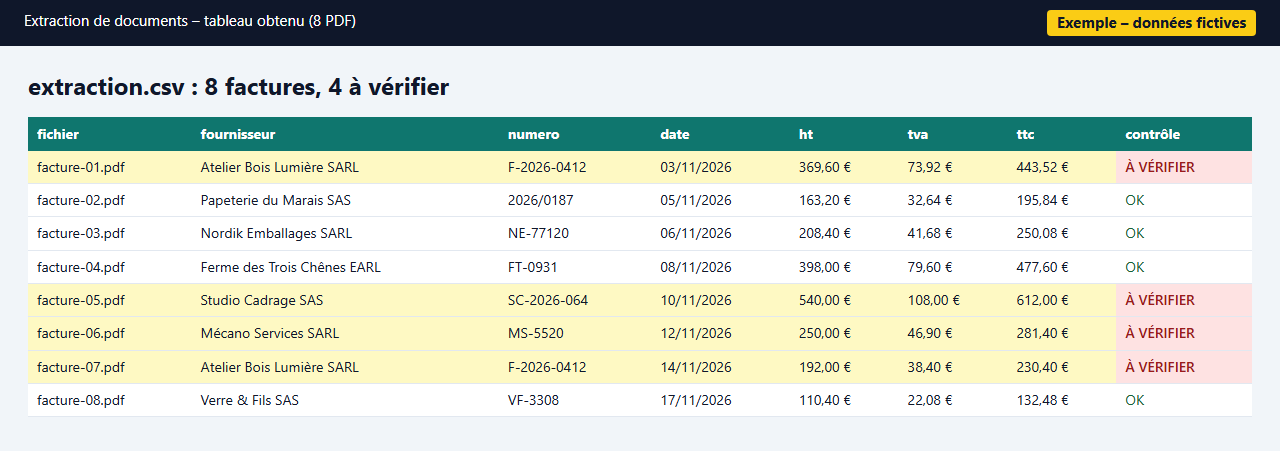
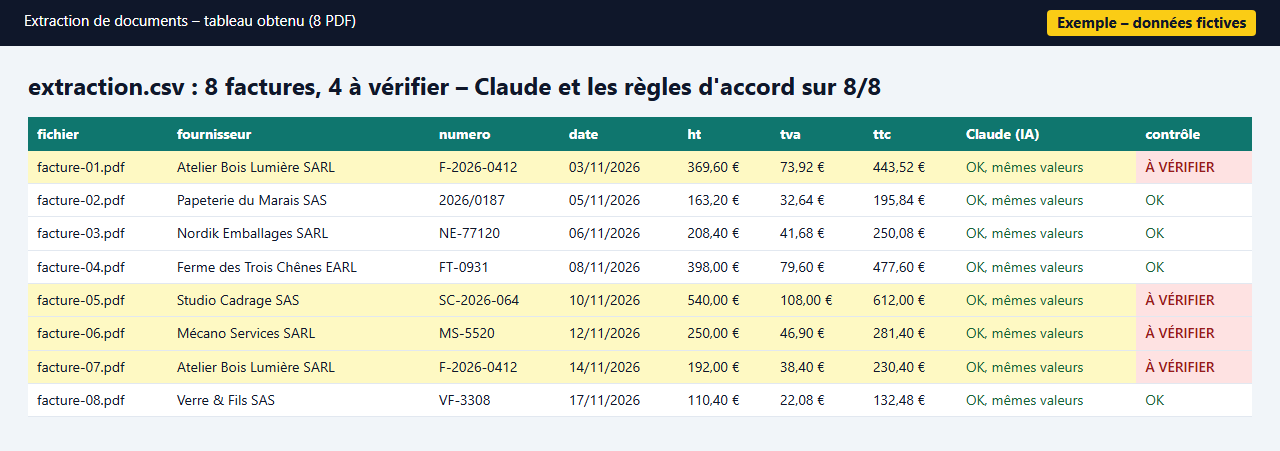
kickoff: fiches ComeUp passe finale, état et journal à jour

diff --git a/livrables/comeup/demos/S3/_tmp/p.html b/livrables/comeup/demos/S3/_tmp/p.html
@@ -9,4 +9,4 @@ th{background:var(--a);color:#fff;text-align:left;padding:7px 9px}td{padding:6px
 pre{background:#0f172a;color:#e2e8f0;padding:16px;border-radius:8px;font:14px/1.5 Consolas,monospace;white-space:pre-wrap}
 .card{background:#fff;border-left:6px solid var(--a);border-radius:6px;padding:10px 14px;margin:0 0 10px;font-size:14px}
 </style>
-<div class=bar><span>Extraction de documents – incohérence signalée</span><span class=tag>Exemple – données fictives</span></div><main><div style='display:grid;grid-template-columns:1fr 1fr;gap:24px'><div><h1>Facture facture-05.pdf</h1><img src=f5.png style='width:100%;border:1px solid #cbd5e1;box-shadow:0 2px 8px #0003'></div><div><h1>Signalement automatique</h1><div class=card style='border-color:#b91c1c'><b>SC-2026-064</b> – Studio Cadrage SAS<br><br>Total HT 540,00 € + TVA 108,00 € = <b>648,00 €</b><br>Total TTC écrit sur la facture : <b>612,00 €</b><br><br><span class=bad>HT+TVA = 648,00 € ≠ TTC 612,00 €</span></div><p>Le script ne corrige pas : il marque la ligne pour relecture humaine.</p></div></div></main>
+<div class=bar><span>Extraction de documents – incohérence signalée</span><span class=tag>Exemple – données fictives</span></div><main><div style='display:grid;grid-template-columns:1fr 1fr;gap:24px'><div><h1>Facture facture-05.pdf</h1><img src=f5.png style='width:100%;border:1px solid #cbd5e1;box-shadow:0 2px 8px #0003'></div><div><h1>Signalement automatique (règles + relecture Claude : mêmes montants lus)</h1><div class=card style='border-color:#b91c1c'><b>SC-2026-064</b> – Studio Cadrage SAS<br><br>Total HT 540,00 € + TVA 108,00 € = <b>648,00 €</b><br>Total TTC écrit sur la facture : <b>612,00 €</b><br><br><span class=bad>HT+TVA = 648,00 € ≠ TTC 612,00 €</span></div><p>Le script ne corrige pas : il marque la ligne pour relecture humaine.</p></div></div></main>

diff --git a/livrables/comeup/demos/S2/widget.html b/livrables/comeup/demos/S2/widget.html
@@ -13,7 +13,7 @@ form{display:flex;gap:8px;padding:12px;border-top:1px solid #e5e7eb}input{flex:1
 const log=document.getElementById('log');
 async function send(q){ if(!q)return; add('u',q);
  const r=await (await fetch('/ask?q='+encodeURIComponent(q))).json();
- add('b'+(r.source?'':' nok'),r.answer,r.source?'Source : '+r.source:'');}
+ add('b'+(r.source?'':' nok'),r.answer,r.source?(r.gen?'Réponse rédigée par Claude à partir du passage cité · ':'')+'Source : '+r.source:'');}
 function add(c,t,s){const d=document.createElement('div');d.className='m '+c;d.textContent=t;
  if(s){const e=document.createElement('div');e.className='src';e.textContent=s;d.appendChild(e)}log.appendChild(d)}
 f.onsubmit=e=>{e.preventDefault();send(q.value);q.value=''};

diff --git a/livrables/comeup/demos/S3/shots.py b/livrables/comeup/demos/S3/shots.py
@@ -11,14 +11,14 @@ def make(name, title, body, h):
 im = "style='width:100%;border:1px solid #cbd5e1;box-shadow:0 2px 8px #0003'"
 make("S3-1-pdf-entree.png", "Extraction de documents – PDF en entrée",
      f"<div style='display:grid;grid-template-columns:1fr 1fr;gap:24px'><div><h1>Facture PDF fictive (entrée)</h1><img src={img(2)} {im}></div>"
-     f"<div><h1>Ce que le script lit</h1><pre>Fournisseur : Papeterie du Marais SAS\nSIRET       : 498 765 432 00027\nN° facture  : 2026/0187\nDate        : 05/11/2026\nTotal HT    : 163,20 €\nTVA         : 32,64 €\nTotal TTC   : 195,84 €\nContrôles   : OK</pre></div></div>", 720)
-th = "".join(f"<th>{k}</th>" for k in ("fichier","fournisseur","numero","date","ht","tva","ttc","contrôle"))
-tr = "".join(f"<tr class='{'warn' if r['alertes'] else ''}'><td>{r['fichier']}</td><td>{html.escape(r['fournisseur'])}</td><td>{html.escape(r['numero'])}</td><td>{r['date']}</td><td>{fr(r['ht'])}</td><td>{fr(r['tva'])}</td><td>{fr(r['ttc'])}</td><td class='{'bad' if r['alertes'] else 'ok'}'>{'À VÉRIFIER' if r['alertes'] else 'OK'}</td></tr>" for r in rows)
+     f"<div><h1>Ce que les règles lisent (puis Claude en recoupement)</h1><pre>Fournisseur : Papeterie du Marais SAS\nSIRET       : 498 765 432 00027\nN° facture  : 2026/0187\nDate        : 05/11/2026\nTotal HT    : 163,20 €\nTVA         : 32,64 €\nTotal TTC   : 195,84 €\nContrôles   : OK\n\nClaude (IA) relit le même texte :\nmêmes 5 champs, aucun écart</pre></div></div>", 720)
+th = "".join(f"<th>{k}</th>" for k in ("fichier","fournisseur","numero","date","ht","tva","ttc","Claude (IA)","contrôle"))
+tr = "".join(f"<tr class='{'warn' if r['alertes'] else ''}'><td>{r['fichier']}</td><td>{html.escape(r['fournisseur'])}</td><td>{html.escape(r['numero'])}</td><td>{r['date']}</td><td>{fr(r['ht'])}</td><td>{fr(r['tva'])}</td><td>{fr(r['ttc'])}</td><td class='{'bad' if r['ia']!='OK' else 'ok'}'>{'OK, mêmes valeurs' if r['ia']=='OK' else 'écart'}</td><td class='{'bad' if r['alertes'] else 'ok'}'>{'À VÉRIFIER' if r['alertes'] else 'OK'}</td></tr>" for r in rows)
 make("S3-2-tableau-extrait.png", "Extraction de documents – tableau obtenu (8 PDF)",
-     f"<h1>extraction.csv : 8 factures, 4 à vérifier</h1><table><tr>{th}</tr>{tr}</table>", 520)
+     f"<h1>extraction.csv : 8 factures, 4 à vérifier – Claude et les règles d'accord sur 8/8</h1><table><tr>{th}</tr>{tr}</table>", 520)
 bad = rows[4]
 make("S3-3-incoherence.png", "Extraction de documents – incohérence signalée",
      f"<div style='display:grid;grid-template-columns:1fr 1fr;gap:24px'><div><h1>Facture {bad['fichier']}</h1><img src={img(5)} {im}></div>"
-     f"<div><h1>Signalement automatique</h1><div class=card style='border-color:#b91c1c'><b>{bad['numero']}</b> – {html.escape(bad['fournisseur'])}<br><br>"
+     f"<div><h1>Signalement automatique (règles + relecture Claude : mêmes montants lus)</h1><div class=card style='border-color:#b91c1c'><b>{bad['numero']}</b> – {html.escape(bad['fournisseur'])}<br><br>"
      f"Total HT {fr(bad['ht'])} + TVA {fr(bad['tva'])} = <b>{fr(float(bad['ht'])+float(bad['tva']))}</b><br>Total TTC écrit sur la facture : <b>{fr(bad['ttc'])}</b><br><br><span class=bad>{html.escape(bad['alertes'])}</span></div>"
      f"<p>Le script ne corrige pas : il marque la ligne pour relecture humaine.</p></div></div>", 720)

diff --git a/livrables/comeup/demos/S2/app.py b/livrables/comeup/demos/S2/app.py
@@ -21,13 +21,13 @@ def ask(q):
         dt = set(toks(t + " " + b)); sc = sum(math.log(1 + N/df[w]) for w in qt & dt)
         if sc > best[0] and len(qt & dt) / len(qt) >= COVERAGE: best = (sc, (t, b))  # une question dont la moitié des mots est inconnue de la FAQ est hors périmètre
     if best[0] < THRESHOLD: return unknown(q, best[0])
-    t, b = best[1]
+    t, b = best[1]; gen = bool(os.environ.get("S2_LLM"))
     if os.environ.get("S2_LLM"):  # RAG : Claude (CLI headless) rédige la réponse à partir du seul passage retrouvé
         b = llm.ask("Tu es l'assistant d'une boutique. Réponds en français, en 1 à 3 phrases, UNIQUEMENT à partir de l'extrait de FAQ ci-dessous. "
                     "Si l'extrait ne répond pas à la question, réponds exactement : Je ne sais pas."
                     f"\n\nExtrait ({t}) :\n{b}\n\nQuestion : {q}")
         if b.lower().startswith("je ne sais pas"): return unknown(q, best[0])
-    return {"answer": b, "source": f"FAQ Boutique Démo > {t}", "score": round(best[0], 2)}
+    return {"answer": b, "source": f"FAQ Boutique Démo > {t}", "score": round(best[0], 2), "gen": gen}
 def unknown(q, score):
     with open(here/"unanswered.log", "a", encoding="utf-8") as f: f.write(f"{datetime.datetime.now():%Y-%m-%d %H:%M}\t{q}\n")
     return {"answer": "Je ne sais pas : cette information n'est pas dans la FAQ. Je transmets votre question à l'équipe, qui vous répondra par e-mail sous 24 h ouvrées.", "source": None, "score": round(score, 2)}

diff --git a/livrables/comeup/demos/S3/extract.py b/livrables/comeup/demos/S3/extract.py
@@ -15,13 +15,14 @@ for p in sorted((here/"invoices").glob("*.pdf")):
     block = t.split("Total HT :")[0]
     nums = re.findall(r"\n(\d+)\n([\d ]+,\d{2})\n([\d ]+,\d{2})", block)
     lines_sum = round(sum(num(c) for _, _, c in nums), 2)
-    ai_alert = []
+    ai_alert = []; ia = ""
     if AI:
         raw = llm.ask("Extrais de cette facture le numéro, la date (JJ/MM/AAAA), le total HT, la TVA et le total TTC (nombres avec point décimal). Réponds uniquement par un objet JSON de clés numero, date, ht, tva, ttc.\n\n" + t)
         a = json.loads(raw[raw.index("{"):raw.rindex("}") + 1])
         ai_alert = [f"IA ≠ règles sur {k}" for k, v in (("numero", g(r"Facture n° (\S+)")), ("date", g(r"Date : (\S+)")), ("ht", ht), ("tva", tva), ("ttc", ttc)) if str(a[k]).strip() != str(v)]
+        ia = "OK" if not ai_alert else "écart"
     rows.append(dict(fichier=p.name, fournisseur=t.split("\n")[0].strip(), siret=g(r"SIRET ([\d ]+)"), numero=g(r"Facture n° (\S+)"),
-                     date=g(r"Date : (\S+)"), ht=ht, tva=tva, ttc=ttc, somme_lignes=lines_sum, alertes=ai_alert))
+                     date=g(r"Date : (\S+)"), ht=ht, tva=tva, ttc=ttc, somme_lignes=lines_sum, ia=ia, alertes=ai_alert))
 cnt = collections.Counter((r["fournisseur"], r["numero"]) for r in rows)
 for r in rows:
     if abs(r["somme_lignes"] - r["ht"]) > 0.01: r["alertes"].append(f"somme des lignes {fr(r['somme_lignes'])} ≠ Total HT {fr(r['ht'])}")

diff --git a/livrables/comeup/demos/llm.py b/livrables/comeup/demos/llm.py
@@ -1,7 +1,7 @@
 """LLM local = CLI Claude Code en mode headless (abonnement, pas d'API payante). Lève RuntimeError si la CLI n'est pas connectée."""
 import subprocess, json, os, shutil
 def ask(prompt, model="haiku", timeout=180):
-    env = {k: v for k, v in os.environ.items() if not k.startswith(("CLAUDE", "ANTHROPIC_"))}  # jamais de clé API
+    env = {k: v for k, v in os.environ.items() if k == "CLAUDE_CODE_OAUTH_TOKEN" or not k.startswith(("CLAUDE", "ANTHROPIC_"))}  # jamais de clé API
     p = subprocess.run([shutil.which("claude") or "claude", "-p", "--model", model, "--output-format", "json"], input=prompt,
                        capture_output=True, text=True, encoding="utf-8", timeout=timeout, env=env)
     r = json.loads(p.stdout)

diff --git a/livrables/comeup/demos/S2/shots.py b/livrables/comeup/demos/S2/shots.py
@@ -6,7 +6,7 @@ here = pathlib.Path(__file__).parent; (here/"unanswered.log").unlink(missing_ok=
 srv = subprocess.Popen([sys.executable, str(here/"app.py")]); time.sleep(1.5)
 u = lambda *qs: "http://127.0.0.1:8765/?" + "&".join("q=" + up.quote(q) for q in qs)
 try:
-    shot(u("Combien coûte la livraison express ?"), ASSETS/"S2-1-reponse-sourcee.png", 1280, 520)
+    shot(u("Combien coûte la livraison express ?", "Quelle est la durée de la garantie ?"), ASSETS/"S2-1-reponse-sourcee.png", 1280, 690)
     shot(u("Vendez-vous des cartes cadeaux ?", "Avez-vous un magasin à Lyon ?"), ASSETS/"S2-2-hors-perimetre.png", 1280, 620)
     shot("http://127.0.0.1:8765/log", ASSETS/"S2-3-questions-sans-reponse.png", 1280, 300)
 finally: srv.terminate()

diff --git a/scripts/with_token.py b/scripts/with_token.py
@@ -1,0 +1,9 @@
+"""Lance une commande avec le token Claude de l'agence (forfait Max), jamais avec une clé API.
+Usage : python scripts/with_token.py <commande...>"""
+import os, shutil, subprocess, sys
+import tg
+
+env = {k: v for k, v in os.environ.items() if k not in ("ANTHROPIC_API_KEY", "ANTHROPIC_AUTH_TOKEN")}
+env["CLAUDE_CODE_OAUTH_TOKEN"] = tg.env()["CLAUDE_CODE_OAUTH_TOKEN"]
+cmd = [shutil.which(sys.argv[1]) or sys.argv[1], *sys.argv[2:]]
+sys.exit(subprocess.call(cmd, env=env))

diff --git a/livrables/comeup/S3-extraction-documents-ia.md b/livrables/comeup/S3-extraction-documents-ia.md
@@ -1,12 +1,12 @@
-# S3 - Automatisation de l'extraction de documents (factures, bons de livraison, PDF vers Excel)
+# S3 - Extraction de factures PDF vers Excel par IA (bons de livraison / CMR sur devis après test)
 
 Les blocs entre les lignes ==== sont à coller tels quels dans ComeUp : texte brut, sans Markdown (pas de ** ni de ->), listes avec "- " et numéros "1.".
 Prix = prix affiché acheteur (benchmark). À la création, saisir le prix vendeur qui donne ce prix affiché (~ prix / 1,102) et contrôler au checkout. Limite de titre ComeUp non vérifiée : titre gardé nettement sous 80 caractères.
 À confirmer par Baptiste avant publication : la niche (recherche ComeUp "saisie de factures" / "extraction de données") et la catégorie Saisie/Data si elle existe.
 
-## Titre (62 caractères)
-Je vais transformer vos factures et bons de livraison en Excel
-(ComeUp impose "Je vais" : saisir "transformer vos factures et bons de livraison en Excel")
+## Titre (70 caractères)
+Je vais automatiser l'extraction de vos factures PDF vers Excel par IA
+(ComeUp impose "Je vais" : saisir "automatiser l'extraction de vos factures PDF vers Excel par IA")
 
 ## Catégorie
 Programmation & Tech > Automatisation (à confirmer à la création ; alternative : Saisie / Data si la catégorie existe)
@@ -25,7 +25,7 @@ Programmation & Tech > Automatisation (à confirmer à la création ; alternativ
 | Révisions | 1 | 2 | 3 + 14 jours de support |
 | Types de documents | 1 | 3 | jusqu'à 5 |
 | Destination | 1 (Google Sheets, Excel ou CSV) | 1 | Google Sheets/Excel + base Supabase + export |
-| Test sur vos documents | 10 documents | 20 par type | jusqu'à 60 au total, répartis entre vos types |
+| Test sur vos documents | 10 documents | 20 par type (60 pour 3 types) | 20 par type (100 pour 5 types) |
 | Taux de lecture mesuré et communiqué | oui | oui | oui |
 | Contrôles de cohérence (totaux, doublons) | non | oui | oui |
 | Alerte sur les cas douteux | non (champs manquants seulement signalés) | oui | oui |
@@ -33,7 +33,7 @@ Programmation & Tech > Automatisation (à confirmer à la création ; alternativ
 | Validation humaine intégrée (écran de relecture) | non | non | oui |
 | Documentation | 1 page | 2-3 pages | complète |
 
-Logique de prix : Essentiel à 49 €, dans la médiane marché (33-55 €), avec un test de 10 documents pour rester tenable en temps ; niche sans concurrent vu ; upsell naturel vers les contrôles de cohérence puis le flux complet. Tarif de lancement à relever après les premiers avis (Baptiste décide). Le coût API par document n'est pas dans le prix : estimation donnée avant commande.
+Logique de prix : Essentiel à 49 €, dans la médiane marché (33-55 €), avec un test de 10 documents pour rester tenable en temps ; niche sans concurrent vu ; upsell naturel vers les contrôles de cohérence puis le flux complet. Écart Standard-Premium (260 €) : 2 types de documents en plus (2 x 39 = 78 €) + écran de validation humaine (69 €) + destination supplémentaire Supabase (25 €) + 40 documents de test en plus (4 x 15 = 60 €) = 232 € ; le reste (environ 28 €) correspond au flux complet (boîte mail ou dossier surveillé, extraction, base, export) et aux 14 jours de support. Tarif de lancement à relever après les premiers avis (Baptiste décide). Le coût API par document n'est pas dans le prix : estimation donnée avant commande.
 
 ## Options (extras)
 - Type de document supplémentaire : +39 €
@@ -57,24 +57,24 @@ Standard (169 € / 7 jours) :
 3 types de documents, contrôles de cohérence (totaux, doublons), alerte sur les cas douteux, test sur 20 documents par type, documentation de 2 à 3 pages. 2 corrections.
 ====
 Premium (429 € / 14 jours) :
-Flux complet : boîte mail ou dossier surveillé, extraction, base Supabase, export. Jusqu'à 5 types de documents, écran de validation humaine, test sur 60 documents au total (répartis entre vos types), 14 jours de support. 3 corrections.
+Flux complet : boîte mail ou dossier surveillé, extraction, base Supabase, export. Jusqu'à 5 types de documents, écran de validation humaine, test sur 20 documents par type (100 au total pour 5 types), 14 jours de support. 3 corrections.
 ====
 
 ## Description (à coller)
 ====
-Vous retapez à la main des factures, des bons de livraison ou des CMR dans un tableur : c'est long, ennuyeux et une faute de frappe passe vite. J'automatise cette saisie de factures et de documents PDF vers Excel ou Google Sheets avec n8n et l'IA, avec vos règles de contrôle.
+Vous retapez à la main des factures dans un tableur : c'est long, ennuyeux et une faute de frappe passe vite. J'automatise cette saisie de factures PDF vers Excel ou Google Sheets avec n8n et l'IA, avec vos règles de contrôle. Les bons de livraison, CMR et autres documents sont possibles sur devis, après un test sur vos exemples : ils ne sont pas démontrés dans la galerie.
 
-Je suis développeur avec une expérience professionnelle de la logistique : je connais ces documents (références, quantités, dates, numéros de commande, totaux) et leurs pièges. Je mets en place un flux n8n + IA qui lit vos PDF (texte en priorité ; scans et photos nettes possibles, selon le taux de lecture mesuré sur vos documents de test), en extrait les champs utiles et les range dans Google Sheets, Excel ou une base de données.
+Je suis développeur avec une expérience professionnelle de la logistique : je connais ces documents (références, quantités, dates, numéros de commande, totaux) et leurs pièges. Je mets en place un flux n8n + IA qui lit vos PDF (PDF texte, le cas démontré ; scans et photos : à évaluer sur vos documents de test, rien n'est promis d'avance), en extrait les champs utiles et les range dans Google Sheets, Excel ou une base de données.
 
 CE QUE VOUS RECEVEZ
 - Un workflow n8n prêt à l'emploi pour le ou les types de document du palier. Un type = une famille de documents aux mêmes champs (par exemple "factures fournisseurs"), quel que soit le fournisseur.
-- Un test sur vos vrais documents (10 en Essentiel, 20 par type en Standard, jusqu'à 60 au total en Premium), avec le taux de lecture correcte mesuré champ par champ et communiqué : vous voyez ce qui marche et ce qui ne marche pas.
+- Un test sur vos vrais documents (10 en Essentiel, 20 par type en Standard, 20 par type en Premium, soit 100 pour 5 types), avec le taux de lecture correcte mesuré champ par champ et communiqué : vous voyez ce qui marche et ce qui ne marche pas.
 - Selon le palier : contrôles de cohérence (le total correspond-il aux lignes ? doublon ?), alerte sur les cas douteux, base Supabase, écran de validation humaine.
 - Une documentation et vos accès à votre nom.
 
 Cas douteux : un document est marqué "à relire" si un champ obligatoire manque ou est illisible, si la somme des lignes ne correspond pas au total, si le numéro existe déjà, ou si l'IA signale qu'elle n'est pas sûre d'une valeur. Les règles sont écrites avec vous avant de construire.
 
-Les captures de la galerie montrent la logique (lecture de PDF, tableau, cas douteux signalé) sur un prototype avec des factures fictives ; chez vous, elle est construite dans n8n avec une étape IA pour les documents scannés ou mal structurés.
+Les captures de la galerie viennent d'un prototype en Python sur 8 factures PDF fictives, dont 4 contiennent volontairement une erreur ou un doublon pour montrer les contrôles (l'accord 8 sur 8 ne mesure donc pas une précision réelle) : des règles lisent les champs, Claude (IA) relit chaque facture en parallèle et les deux résultats sont comparés (accord sur 8 factures sur 8), puis les incohérences sont signalées. Ce prototype n'est pas un workflow n8n et n'a été testé que sur ces PDF fictifs au texte lisible ; chez vous, la logique est construite dans n8n avec l'API Claude.
 
 EXEMPLE (illustratif, pas un résultat client)
 Une facture PDF arrive dans une boîte Gmail ou un dossier Drive. n8n la récupère, l'IA (API Claude) lit le document et renvoie les champs : fournisseur, numéro de facture, date, lignes, total HT, TVA, total TTC. n8n vérifie que la somme des lignes égale le total et que le numéro n'existe pas déjà, puis ajoute la ligne dans Google Sheets. Si une vérification échoue, la ligne est marquée "à relire" et vous recevez un message.
@@ -95,7 +95,7 @@ CE QUI N'EST PAS INCLUS
 
 FAQ
 Quels documents sont lus ?
-Factures, bons de livraison, bons de commande, CMR, tickets, relevés, en PDF texte. Les PDF scannés et les photos nettes sont possibles mais non garantis d'avance : le taux de lecture se mesure sur vos documents de test (voir "Quelle précision ?"), et un prétraitement est proposé en option si la qualité est faible.
+Factures en PDF texte (cas démontré). Bons de livraison, bons de commande, CMR, tickets, relevés : sur devis, après un test sur vos exemples (non démontrés dans la galerie). Pour les PDF scannés et les photos, je ne promets rien d'avance : selon le test sur vos documents (voir "Quelle précision ?"), je vous dis si c'est lisible, et un prétraitement est proposé en option si la qualité est faible.
 
 Quelle précision ?
 Elle dépend de vos documents. On mesure ensemble le taux de lecture sur vos documents de test avant de valider ; pas de promesse chiffrée avant ce test. À l'issue du test, vous décidez de continuer ou non.
@@ -119,7 +119,7 @@ Je corrige dans les révisions du palier jusqu'à ce que le flux fonctionne conf
 ====
 
 ## Consignes à l'acheteur (questions à la commande)
-1. Quel(s) type(s) de document (factures, BL, CMR...) et en quel volume par mois ?
+1. Quel(s) type(s) de document (factures ; BL, CMR... sur devis) et en quel volume par mois ?
 2. Format : PDF texte, scans, photos de téléphone ?
 3. Quels champs voulez-vous extraire (liste précise) ?
 4. Où doivent aller les données (Google Sheets, Excel, base) et quelles colonnes ?
@@ -139,10 +139,9 @@ extraction de données, saisie de factures, OCR IA, n8n, automatisation
 - À tester à 200 px de large avant publication.
 
 ## Preuves (à joindre)
-Galerie ComeUp, dans cet ordre. Toutes les images portent la mention "Exemple - données fictives". Les captures montrent la logique sur un prototype en Python local (code réel, données fictives) : elles ne montrent ni n8n ni IA générative. Chez le client, la logique est construite dans n8n avec une étape IA pour les documents scannés ou mal structurés. Ne jamais présenter ces captures comme un workflow n8n livré.
-Le prototype lit le texte de PDF fictifs avec des règles fixes (extraction déterministe) ; l'étape IA n'est pas illustrée.
-- livrables/comeup/assets/S3-couverture.png : couverture 1280x720 (les mots "par IA" et "n8n" désignent l'offre, pas la démo).
-- livrables/comeup/assets/S3-1-pdf-entree.png. Légende : "Entrée : facture PDF fictive et champs lus."
-- livrables/comeup/assets/S3-2-tableau-extrait.png. Légende : "Sortie : 8 factures converties en tableau, 4 marquées à vérifier."
-- livrables/comeup/assets/S3-3-incoherence.png. Légende : "Cas douteux signalé : HT + TVA ne correspond pas au TTC. Aucune correction automatique."
-- Vidéo de démo 60-90 s (flux n8n réel, facture fictive vers ligne Sheets, cas douteux marqué) : à enregistrer par Baptiste, hors atelier.
+Galerie ComeUp, dans cet ordre. Toutes les images portent la mention "Exemple - données fictives". La preuve ne couvre que des factures. Les captures viennent d'un prototype en Python local (code réel, 8 factures PDF fictives au texte lisible, dont 4 pièges volontaires : erreur ou doublon) avec une vraie étape IA : des règles extraient les champs, Claude relit chaque facture, les deux résultats sont comparés (accord 8/8) et les incohérences de totaux, de TVA ou de doublon sont signalées sans correction. Le prototype n'est pas un workflow n8n, ne lit ni scans ni photos, et aucun taux de lecture sur de vrais documents n'est démontré. Ne jamais présenter ces captures comme un flux livré.
+- livrables/comeup/assets/S3-couverture.png : couverture 1280x720 (le mot "n8n" désigne l'offre, pas la démo).
+- livrables/comeup/assets/S3-1-pdf-entree.png. Légende : "Entrée : facture PDF fictive, champs lus par les règles et relus par Claude."
+- livrables/comeup/assets/S3-2-tableau-extrait.png. Légende : "Sortie : 8 factures fictives converties en tableau ; 4 contiennent volontairement une erreur ou un doublon pour montrer les contrôles (4 marquées à vérifier). Claude et les règles d'accord sur 8 sur 8, ce qui ne mesure pas la précision réelle."
+- livrables/comeup/assets/S3-3-incoherence.png. Légende : "Cas douteux signalé : HT + TVA (648,00 €) ne correspond pas au TTC (612,00 €). Aucune correction automatique."
+- Vidéo de démo 60-90 s : à enregistrer avant publication (flux n8n réel, facture fictive vers ligne Sheets, cas douteux marqué ; par Baptiste, hors atelier).

diff --git a/livrables/comeup/S2-assistant-ia-documents.md b/livrables/comeup/S2-assistant-ia-documents.md
@@ -21,7 +21,7 @@ Programmation & Tech > Automatisation (alternative : Chatbot / IA si une catégo
 | Chatbot sur votre site (widget) | 1 | 1 | 1 |
 | Documents / FAQ intégrés (1 document = 1 PDF ou page de 20 pages maximum) | jusqu'à 10 | jusqu'à 50 | jusqu'à 100 |
 | Règles de ton et de contenu | oui | oui | oui |
-| Test avec 20 questions | oui | oui | oui |
+| Test avec des questions réelles | 10 questions | 20 questions | 20 questions |
 | "Je ne sais pas" paramétré | oui | oui | oui |
 | Transfert à un humain par email | non (option +49 €) | oui | oui |
 | Historique des conversations (nécessite une base Supabase) | non (option +39 €) | oui | oui |
@@ -49,10 +49,10 @@ Logique de prix : l'Essentiel à 55 € (10 documents, sans base Supabase) reste
 ## Texte à coller par palier
 ====
 Essentiel (55 € / 5 jours) :
-1 chatbot IA en widget sur votre site, basé sur jusqu'à 10 de vos documents ou FAQ (1 document = 1 PDF ou page de 20 pages maximum), avec règles de ton, réponse "je ne sais pas" quand l'information manque, test avec 20 questions, documentation d'1 page. 1 correction.
+1 chatbot IA en widget sur votre site, basé sur jusqu'à 10 de vos documents ou FAQ (1 document = 1 PDF ou page de 20 pages maximum), avec règles de ton, réponse "je ne sais pas" quand l'information manque, test avec 10 questions, documentation d'1 page. 1 correction.
 ====
 Standard (249 € / 10 jours) :
-Essentiel + jusqu'à 50 documents, transfert à un humain par email, historique des conversations (base Supabase à votre nom), un plafond mensuel de dépense API réglé pour vous, documentation d'exploitation + guide de mise à jour de vos documents. 2 corrections.
+Essentiel + test porté à 20 questions, jusqu'à 50 documents, transfert à un humain par email, historique des conversations (base Supabase à votre nom), un plafond mensuel de dépense API réglé pour vous, documentation d'exploitation + guide de mise à jour de vos documents. 2 corrections.
 ====
 Premium (549 € / 18 jours) :
 Standard + jusqu'à 100 documents, 1 intégration au choix (Google Calendar/Calendly pour un agenda, ou un CRM avec API comme HubSpot), tableau des questions sans réponse, 14 jours de réglages. 3 corrections.
@@ -60,21 +60,21 @@ Standard + jusqu'à 100 documents, 1 intégration au choix (Google Calendar/Cale
 
 ## Description (à coller)
 ====
-Vos clients posent chaque jour les mêmes questions (délais, retours, tarifs, fonctionnement) et vous y répondez à la main. Je crée un chatbot IA pour votre boutique en ligne ou votre site : il répond à partir de VOS documents et vous passe le relais quand il ne sait pas.
+Vos clients posent chaque jour les mêmes questions (délais, retours, tarifs, fonctionnement) et vous y répondez à la main. Je crée un chatbot IA pour votre boutique en ligne ou votre site : il répond à partir de VOS documents (il peut se tromper : voir les limites plus bas) et, à partir du palier Standard, vous passe le relais quand il ne sait pas.
 
-Je suis développeur avec une expérience professionnelle de la logistique, donc habitué aux questions de livraison, de retour et de suivi. Je crée un chatbot sur mesure, intégré à votre site, qui répond uniquement à partir des documents que vous me fournissez.
+Je suis développeur avec une expérience professionnelle de la logistique, donc habitué aux questions de livraison, de retour et de suivi. Le chatbot est intégré à votre site et s'appuie sur les documents que vous me fournissez.
 
 CE QUE VOUS RECEVEZ
 - Un chatbot en widget à intégrer sur votre site (une ligne de code à coller).
 - Une base de connaissances construite à partir de vos documents (FAQ, CGV, fiches produits, procédures) : un document compte pour 1 PDF ou 1 page de 20 pages maximum ; au-delà, il compte pour plusieurs, au prorata.
 - Un ton réglé selon vos consignes (vouvoiement, style, ce qu'il ne doit jamais dire).
-- Un test avec 20 questions réelles, avec les réponses relues ensemble.
+- Un test avec vos questions réelles (10 en Essentiel, 20 en Standard et Premium), avec les réponses relues ensemble.
 - Selon le palier : transfert à un humain par email, historique des conversations, plafond de dépense API réglé, tableau des questions sans réponse, guide de mise à jour.
 
-Les captures de la galerie montrent la logique (réponse sourcée, "je ne sais pas", journal des questions) sur un prototype qui fait une recherche par mots-clés dans une FAQ fictive, sans IA générative ; chez vous, le chatbot est construit dans n8n avec l'IA (API Claude) qui rédige la réponse à partir de vos documents.
+Les captures de la galerie viennent d'un prototype en Python sur une FAQ fictive : il retrouve le passage utile, puis Claude (IA) rédige la réponse à partir de ce seul passage, en citant la source, et répond "je ne sais pas" hors périmètre ; la question sans réponse est seulement enregistrée dans un journal (pas d'e-mail envoyé dans la démo). Ce prototype n'est pas un workflow n8n ; chez vous, le chatbot est construit dans n8n avec l'API Claude.
 
 EXEMPLE (illustratif, pas un résultat client)
-Une cliente écrit sur votre boutique : "Je peux retourner une robe achetée il y a trois semaines ?" Le chatbot retrouve la règle dans vos conditions de retour et répond avec cette règle, en citant votre politique. Si la réponse n'est pas dans vos documents, il répond "Je n'ai pas cette information" et vous envoie la question par email, avec les coordonnées laissées par la cliente (palier Standard et au-dessus).
+Une cliente écrit sur votre boutique : "Je peux retourner une robe achetée il y a trois semaines ?" Le chatbot retrouve la règle dans vos conditions de retour et répond avec cette règle, en citant votre politique. Si la réponse n'est pas dans vos documents, il répond "Je n'ai pas cette information" et, à partir du Standard, vous envoie la question par email, avec les coordonnées laissées par la cliente (palier Standard et au-dessus).
 Côté technique, pour les curieux : n8n, base Supabase et API Claude (Anthropic).
 
 OÙ TOURNE VOTRE CHATBOT ET CE QUE ÇA COÛTE
@@ -86,7 +86,7 @@ COMMENT ÇA SE PASSE
 1. Vous répondez aux questions de commande et m'envoyez vos documents.
 2. Je prépare la base de connaissances et définis avec vous les règles de ton et de contenu.
 3. Je construis le chatbot et le widget.
-4. Test avec 20 questions : nous relisons les réponses, j'ajuste.
+4. Test avec vos questions (10 ou 20 selon le palier) : nous relisons les réponses, j'ajuste.
 5. Je livre le code, la documentation et vos accès. Corrections selon les révisions du palier.
 
 CE QUI N'EST PAS INCLUS
@@ -98,7 +98,7 @@ CE QUI N'EST PAS INCLUS
 
 FAQ
 Le chatbot peut-il inventer des réponses ?
-Il est limité à vos documents et paramétré pour dire "je ne sais pas" quand l'information manque. Le risque d'erreur n'est pas nul : c'est pourquoi on teste avec 20 questions avant la livraison.
+Il est limité à vos documents et paramétré pour dire "je ne sais pas" quand l'information manque. Le risque d'erreur n'est pas nul : c'est pourquoi on teste avec vos questions réelles avant la livraison.
 
 Quels documents puis-je fournir ?
 PDF, Word, pages web, FAQ en texte, tableaux simples.
@@ -138,17 +138,16 @@ chatbot IA, chatbot site web, assistant IA, e-commerce, service client
 
 ## Brief image de couverture
 - Format : paysage 16:9, vignette claire type YouTube, même gabarit que S1 et S3.
-- Texte sur l'image (5 mots) : "Chatbot IA pour votre site", en gros, 2 lignes, police grasse sans empattement, lisible à 200 px.
-- Fond : dégradé violet sombre (#2E1065) vers violet (#6D28D9) ; texte blanc, "Chatbot" en jaune (#FACC15).
-- Visuel : à droite, une bulle de chat avec question courte fictive ("Délai de retour ?") et une réponse ; à gauche, une pile de documents qui alimente la bulle (flèche). Pas de vraie donnée client.
+- Texte sur l'image, aligné sur la couverture livrée : "Votre assistant IA répond", en gros, 2 lignes, police grasse sans empattement, lisible à 200 px (le mot "chatbot" reste dans le titre de l'annonce).
+- Fond : dégradé violet sombre (#2E1065) vers violet (#6D28D9) ; texte blanc, accent jaune (#FACC15).
+- Visuel : à droite, une bulle de chat avec une question fictive et une réponse (la bulle "30 jours après réception" n'apparaît dans aucune capture de la galerie : illustration, pas une réponse démontrée) ; à gauche, une pile de documents qui alimente la bulle (flèche). Pas de vraie donnée client.
 - Pas de visage, pas de logos de tiers, pas de faux avis, de notes en étoiles ni de badge.
 - À tester à 200 px de large avant publication.
 
 ## Preuves (à joindre)
-Galerie ComeUp, dans cet ordre. Toutes les images portent la mention "Exemple - données fictives". Les captures montrent la logique sur un prototype en Python local (code réel, données fictives) : elles ne montrent ni n8n ni IA générative. Chez le client, la logique est construite dans n8n avec l'IA (API Claude) pour formuler la réponse à partir de vos documents. Ne jamais présenter ces captures comme un workflow n8n livré.
-Le prototype est une recherche par mots-clés dans une FAQ fictive, avec sources et "je ne sais pas" ; il ne montre pas de génération de réponse par IA.
-- livrables/comeup/assets/S2-couverture.png : couverture 1280x720 (le mot "IA" désigne l'offre, pas la démo).
-- livrables/comeup/assets/S2-1-reponse-sourcee.png. Légende : "L'assistant répond à partir de votre document et cite la section source."
-- livrables/comeup/assets/S2-2-hors-perimetre.png. Légende : "Hors périmètre : il dit qu'il ne sait pas et transmet la question à l'équipe."
+Galerie ComeUp, dans cet ordre. Toutes les images portent la mention "Exemple - données fictives". Les captures viennent d'un prototype en Python local (code réel, FAQ fictive) avec une vraie étape IA : la recherche retrouve le passage, puis Claude rédige la réponse à partir de ce seul passage ; la source est citée et, hors périmètre, la réponse est "je ne sais pas" et la question est enregistrée dans un journal (aucun e-mail envoyé). Le prototype n'est pas un workflow n8n (chez le client, la logique est construite dans n8n avec l'API Claude) et n'a pas été testé sur de vrais documents clients. Ne jamais présenter ces captures comme un chatbot livré.
+- livrables/comeup/assets/S2-couverture.png : couverture 1280x720.
+- livrables/comeup/assets/S2-1-reponse-sourcee.png. Légende : "Réponses rédigées par Claude à partir du passage de la FAQ, avec la source citée (données fictives)."
+- livrables/comeup/assets/S2-2-hors-perimetre.png. Légende : "Hors périmètre : il dit qu'il ne sait pas ; la question est enregistrée dans le journal de l'équipe (aucun e-mail envoyé dans cette démo). Le transfert à un humain par e-mail est inclus à partir du palier Standard, non démontré ici."
 - livrables/comeup/assets/S2-3-questions-sans-reponse.png. Légende : "Journal des questions sans réponse, pour compléter la FAQ."
-- Vidéo de démo 60-90 s + lien public vers une page de test du widget (version réelle avec IA) : à produire par Baptiste, hors atelier.
+- Vidéo de démo 60-90 s : à enregistrer avant publication (avec un lien public vers une page de test du widget, par Baptiste, hors atelier).

diff --git a/livrables/comeup/assets/captions.md b/livrables/comeup/assets/captions.md
@@ -1,29 +1,30 @@
-# Légendes des visuels ComeUp (toutes les captures portent « Exemple – données fictives »)
+# Légendes des visuels ComeUp (données fictives ; badge « Exemple – données fictives » selon image, voir S1)
 
 ## Ce qui est réel / illustré (état au 22/11/2026)
 - RÉEL : exécution du workflow S1 avec la CLI n8n 2.48.7 (import + `execute`, statut success, 7 nœuds, 4 colis détectés = résultat du script Python de référence). Journal brut : demos/S1/n8n/out/n8n-execution.log.
 - RÉEL : détection de retards, extraction de PDF par règles, recherche FAQ avec citation de la source, hors périmètre sans fausse réponse.
-- NON RÉALISÉ : génération par Claude (S2) et extraction par Claude (S3). La CLI `claude` locale est déconnectée (« OAuth session expired », 22/11) : le code est écrit (demos/llm.py, `S2_LLM=1 python app.py`, `python extract.py --ai`) mais jamais exécuté avec succès. Aucune capture n'est présentée comme une réponse IA. À débloquer : Baptiste lance `claude` une fois pour se reconnecter, puis relancer les deux commandes et les shots.
-- Ne pas écrire « IA » ni « Claude » dans les légendes S2/S3 tant que ce n'est pas fait.
+- RÉEL (22/11, après reconnexion) : génération Claude dans le prototype S2 (`S2_LLM=1`, réponse rédigée à partir du seul passage retrouvé) et extraction Claude dans S3 (`extract.py --ai`, 8/8 factures identiques aux règles). Prototypes en Python, PAS en n8n ; données fictives ; aucun test sur de vrais documents, ni scans/photos.
 
 ## S1 – Logistique e-commerce
 - S1-couverture.png : couverture 1280x720 (le nom « n8n » y figure : cohérent, un workflow n8n réel existe).
 - S1-1-donnees-entree.png : « Entrée : export commandes et statuts transporteur (données fictives). »
 - S1-2-execution.png : « Exécution réelle du workflow avec n8n : 7 nœuds, 4 expéditions à risque sur 10 détectées. »
 - S1-3-sorties.png : « Sortie : messages clients prêts à envoyer et résumé d'alerte (retard, incident, absence de scan). » (généré par le script Python de référence, mêmes 4 colis que n8n)
-- S1-4-workflow-n8n.png : « Schéma généré depuis le workflow n8n réel (pas une capture de l'éditeur). » Les nombres d'éléments viennent de l'exécution.
-- Limite honnête : pas d'envoi d'e-mail dans la démo (messages rédigés seulement) ; pas d'étape IA dans S1.
+- S1-4-workflow-n8n.png : RETIRÉE de la galerie (elle montre un autre workflow, 8 nœuds dont une étape IA, jamais exécuté). Ne pas la publier ni la décrire comme la démo.
+- Badge « Exemple – données fictives » : présent sur la couverture, S1-1 et S1-3 ; absent de S1-2 (le titre du workflow indique « données fictives »).
+- Limite honnête : pas d'envoi d'e-mail dans la démo (messages rédigés seulement) ; pas d'étape IA exécutée (démo n8n de 7 nœuds sans IA).
 
 ## S2 – Assistant sur documents
-Démo actuelle = recherche pondérée dans une FAQ fictive, réponse = passage cité (pas de texte généré).
+Démo = recherche pondérée dans une FAQ fictive, puis réponse rédigée par Claude à partir du passage retrouvé (la source est citée).
 - S2-couverture.png : couverture 1280x720.
-- S2-1-reponse-sourcee.png : « Question sur la livraison : l'assistant répond avec le passage de la FAQ et cite sa source. »
-- S2-2-hors-perimetre.png : « Deux questions hors FAQ (cartes cadeaux, magasin à Lyon) : il dit qu'il ne sait pas et transmet à l'équipe. » (faux positif « cartes cadeaux » corrigé)
+- S2-1-reponse-sourcee.png : « Réponses rédigées par Claude à partir du passage de la FAQ, avec la source citée (données fictives). »
+- S2-2-hors-perimetre.png : « Hors périmètre : il dit qu'il ne sait pas ; la question est enregistrée dans le journal de l'équipe (aucun e-mail envoyé dans la démo). Le transfert humain par e-mail est inclus à partir du palier Standard, non démontré ici. »
 - S2-3-questions-sans-reponse.png : « Journal des questions sans réponse, pour compléter la FAQ. »
+- Limite : prototype Python, pas n8n ; FAQ de 5 sections.
 
 ## S3 – Extraction de documents
-Extraction déterministe (texte du PDF + règles), sans IA. L'étape IA (documents scannés ou mal structurés) n'est pas illustrée.
-- S3-couverture.png : couverture 1280x720 (« par IA » dans le titre : à retirer ou à réécrire tant que l'étape IA n'est pas démontrée).
-- S3-1-pdf-entree.png : « Entrée : facture PDF fictive et champs lus. »
-- S3-2-tableau-extrait.png : « Sortie : 8 factures converties en tableau, 4 marquées à vérifier. »
+Règles + relecture Claude sur 8 factures PDF fictives (accord 8/8 ; 4 factures piégées volontairement). Seules des factures sont démontrées : bons de livraison / CMR sur devis après test. Pas de scans ni de photos, pas de taux de lecture sur documents réels.
+- S3-couverture.png : couverture 1280x720 (« par IA » désormais fondé sur l'étape Claude du prototype ; n8n désigne l'offre).
+- S3-1-pdf-entree.png : « Entrée : facture PDF fictive, champs lus par les règles et relus par Claude. »
+- S3-2-tableau-extrait.png : « Sortie : 8 factures fictives converties en tableau ; 4 d'entre elles contiennent volontairement une erreur ou un doublon pour montrer les contrôles (4 à vérifier). Colonne Claude (IA) : mêmes valeurs que les règles sur 8/8, ce qui ne mesure pas la précision réelle. »
 - S3-3-incoherence.png : « Cas douteux signalé : HT + TVA (648,00 €) ne correspond pas au TTC (612,00 €). Aucune correction automatique. »

diff --git a/livrables/comeup/S1-logistique-ecommerce-n8n.md b/livrables/comeup/S1-logistique-ecommerce-n8n.md
@@ -59,7 +59,7 @@ Un colis en retard, un client qui écrit "Où est ma commande ?", et vous qui re
 
 Je suis développeur et je connais la logistique de l'intérieur (préparation, expéditions, retards, litiges). Je construis des automatisations n8n pour votre boutique Shopify ou WooCommerce (et vos autres outils) qui font ce travail répétitif à votre place : vous êtes prévenu quand un colis est bloqué, le client reçoit son suivi sans que vous touchiez à rien, et vos commandes arrivent dans un tableau propre.
 
-Les captures de la galerie montrent d'abord la logique sur un script Python avec des données fictives, puis le même scénario rejoué comme un vrai workflow n8n (exécuté réellement, pas une simulation) ; chez vous, le workflow est adapté à vos outils, avec une étape IA selon le palier.
+Les captures de la galerie montrent la logique sur des données fictives, puis le même scénario exécuté dans n8n (démo sans étape IA) ; chez vous, le workflow est adapté à vos outils, avec une étape IA selon le palier.
 
 CE QUE VOUS RECEVEZ
 - Des workflows n8n prêts à importer (fichier JSON), connectés à vos outils, testés sur vos données (3 exécutions réussies de suite).
@@ -107,9 +107,7 @@ Et si ça ne marche pas ?
 Je corrige jusqu'à ce que le workflow fonctionne conformément au périmètre écrit, dans les révisions du palier. Un changement de périmètre fait l'objet d'une option.
 
 Je ne suis pas sûr de mon besoin, que faire ?
-Décrivez votre situation en message : je réponds sous 48 h ouvrées et je vous dis honnêtement si je suis la bonne personne.
-
-Écrivez-moi avant de commander en décrivant votre flux en 3 lignes : je vous dis le palier adapté et ce qui est faisable.
+Écrivez-moi avant de commander en décrivant votre flux en 3 lignes : je réponds sous 48 h ouvrées, je vous dis le palier adapté et, honnêtement, si je suis la bonne personne.
 ====
 
 ## Consignes à l'acheteur (questions à la commande)
@@ -126,18 +124,17 @@ n8n, automatisation logistique, e-commerce, suivi colis, alerte retard colis
 
 ## Brief image de couverture
 - Format : paysage 16:9, style vignette claire type YouTube.
-- Texte sur l'image (3 mots) : "Automatisez votre logistique", en gros, 2 lignes, police grasse sans empattement, lisible à 200 px de large.
+- Texte sur l'image : "Automatisez votre logistique", en gros, 2 lignes, police grasse sans empattement, lisible à 200 px de large.
 - Fond : dégradé bleu nuit (#0F172A) vers bleu (#1D4ED8) ; texte blanc, "logistique" en jaune (#FACC15).
-- Visuel : à gauche, schéma de 3 blocs reliés par des flèches (icône colis, puis nom "n8n", puis icône alerte). Capture réelle de l'éditeur n8n en arrière-plan flouté à 20 % d'opacité, SANS données de tiers.
+- Visuel : schéma de 3 blocs reliés par des flèches (icône colis, puis nom "n8n", puis icône alerte), sur fond dégradé uni. Pas de capture de l'éditeur n8n en arrière-plan (couverture livrée sans capture).
 - Pas de visage, pas de logos de transporteurs, pas de faux chiffres ni badge.
 - Même gabarit, même police et mêmes couleurs que S2 et S3 (seule la couleur d'accent change).
 - À tester à 200 px de large avant publication.
 
 ## Preuves (à joindre)
-Galerie ComeUp, dans cet ordre. Toutes les images portent la mention "Exemple - données fictives". Le prototype existe en deux versions sur les mêmes données fictives : d'abord un script Python (logique de détection), puis le même scénario rejoué comme un vrai workflow n8n (exécuté avec la CLI n8n, pas une simulation). S1-1 et S1-3 montrent la version script ; S1-2 et S1-4 montrent l'exécution réelle et le schéma de ce workflow n8n. Ne jamais présenter ces captures comme un workflow livré chez un client précis : c'est une démo sur données fictives.
+Galerie ComeUp, dans cet ordre. Seules la couverture, S1-1 et S1-3 portent un badge "Exemple - données fictives" ; S1-2 (capture de l'exécution) n'en a pas, mais le titre du workflow y indique "données fictives". Le prototype existe en deux versions sur les mêmes données fictives : d'abord un script Python (logique de détection), puis le même scénario rejoué comme un vrai workflow n8n de 7 nœuds, sans étape IA (exécuté avec la CLI n8n, pas une simulation). S1-1 et S1-3 montrent la version script ; S1-2 montre l'exécution réelle. L'étape IA des paliers Standard et Premium n'est pas démontrée par ces images. Ne jamais présenter ces captures comme un workflow livré chez un client précis : c'est une démo sur données fictives.
 - livrables/comeup/assets/S1-couverture.png : couverture 1280x720 (le texte "n8n" désigne l'offre, pas la démo).
 - livrables/comeup/assets/S1-1-donnees-entree.png. Légende : "Entrée : export commandes et statuts transporteur (données fictives)."
 - livrables/comeup/assets/S1-2-execution.png. Légende : "Exécution réelle du workflow n8n (CLI n8n) : 4 expéditions à risque détectées sur 10."
 - livrables/comeup/assets/S1-3-sorties.png. Légende : "Sortie : messages clients prêts à envoyer et résumé d'alerte (retard, incident, absence de scan)."
-- livrables/comeup/assets/S1-4-workflow-n8n.png. Légende : "Schéma du workflow n8n réel utilisé pour la démo (nœuds et connexions)."
-- Vidéo de démo 60-90 s (workflow n8n réel sur données fictives) : à enregistrer par Baptiste, hors atelier.
+- Vidéo de démo 60-90 s : à enregistrer avant publication (workflow n8n réel sur données fictives, par Baptiste, hors atelier).
